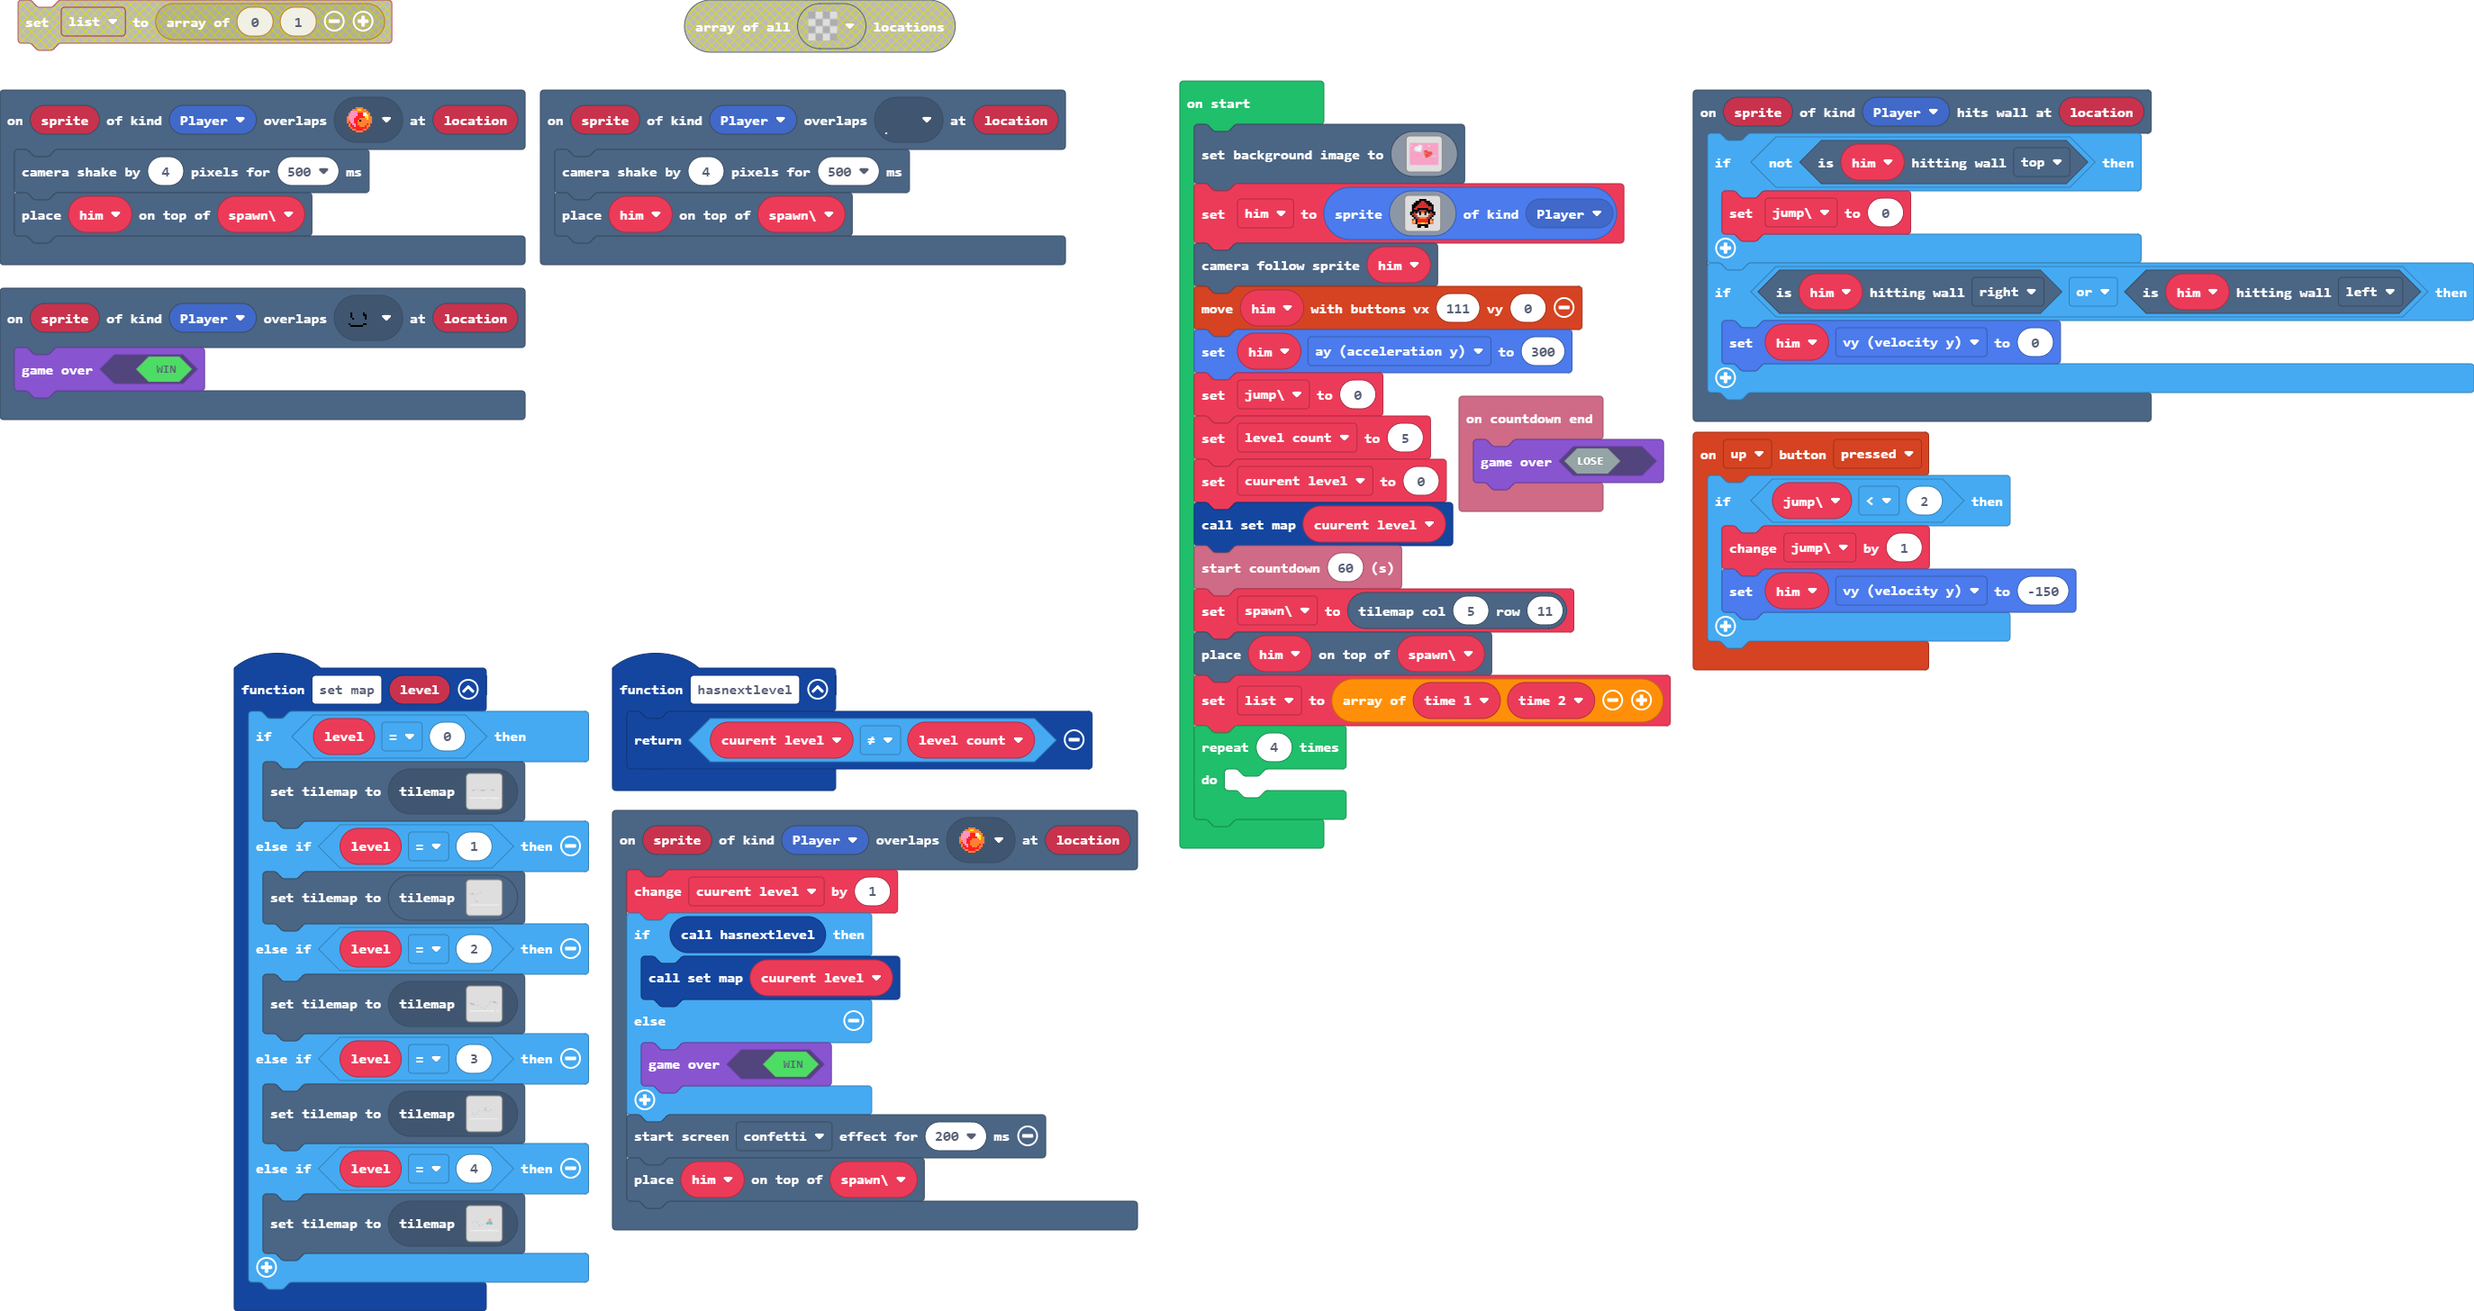
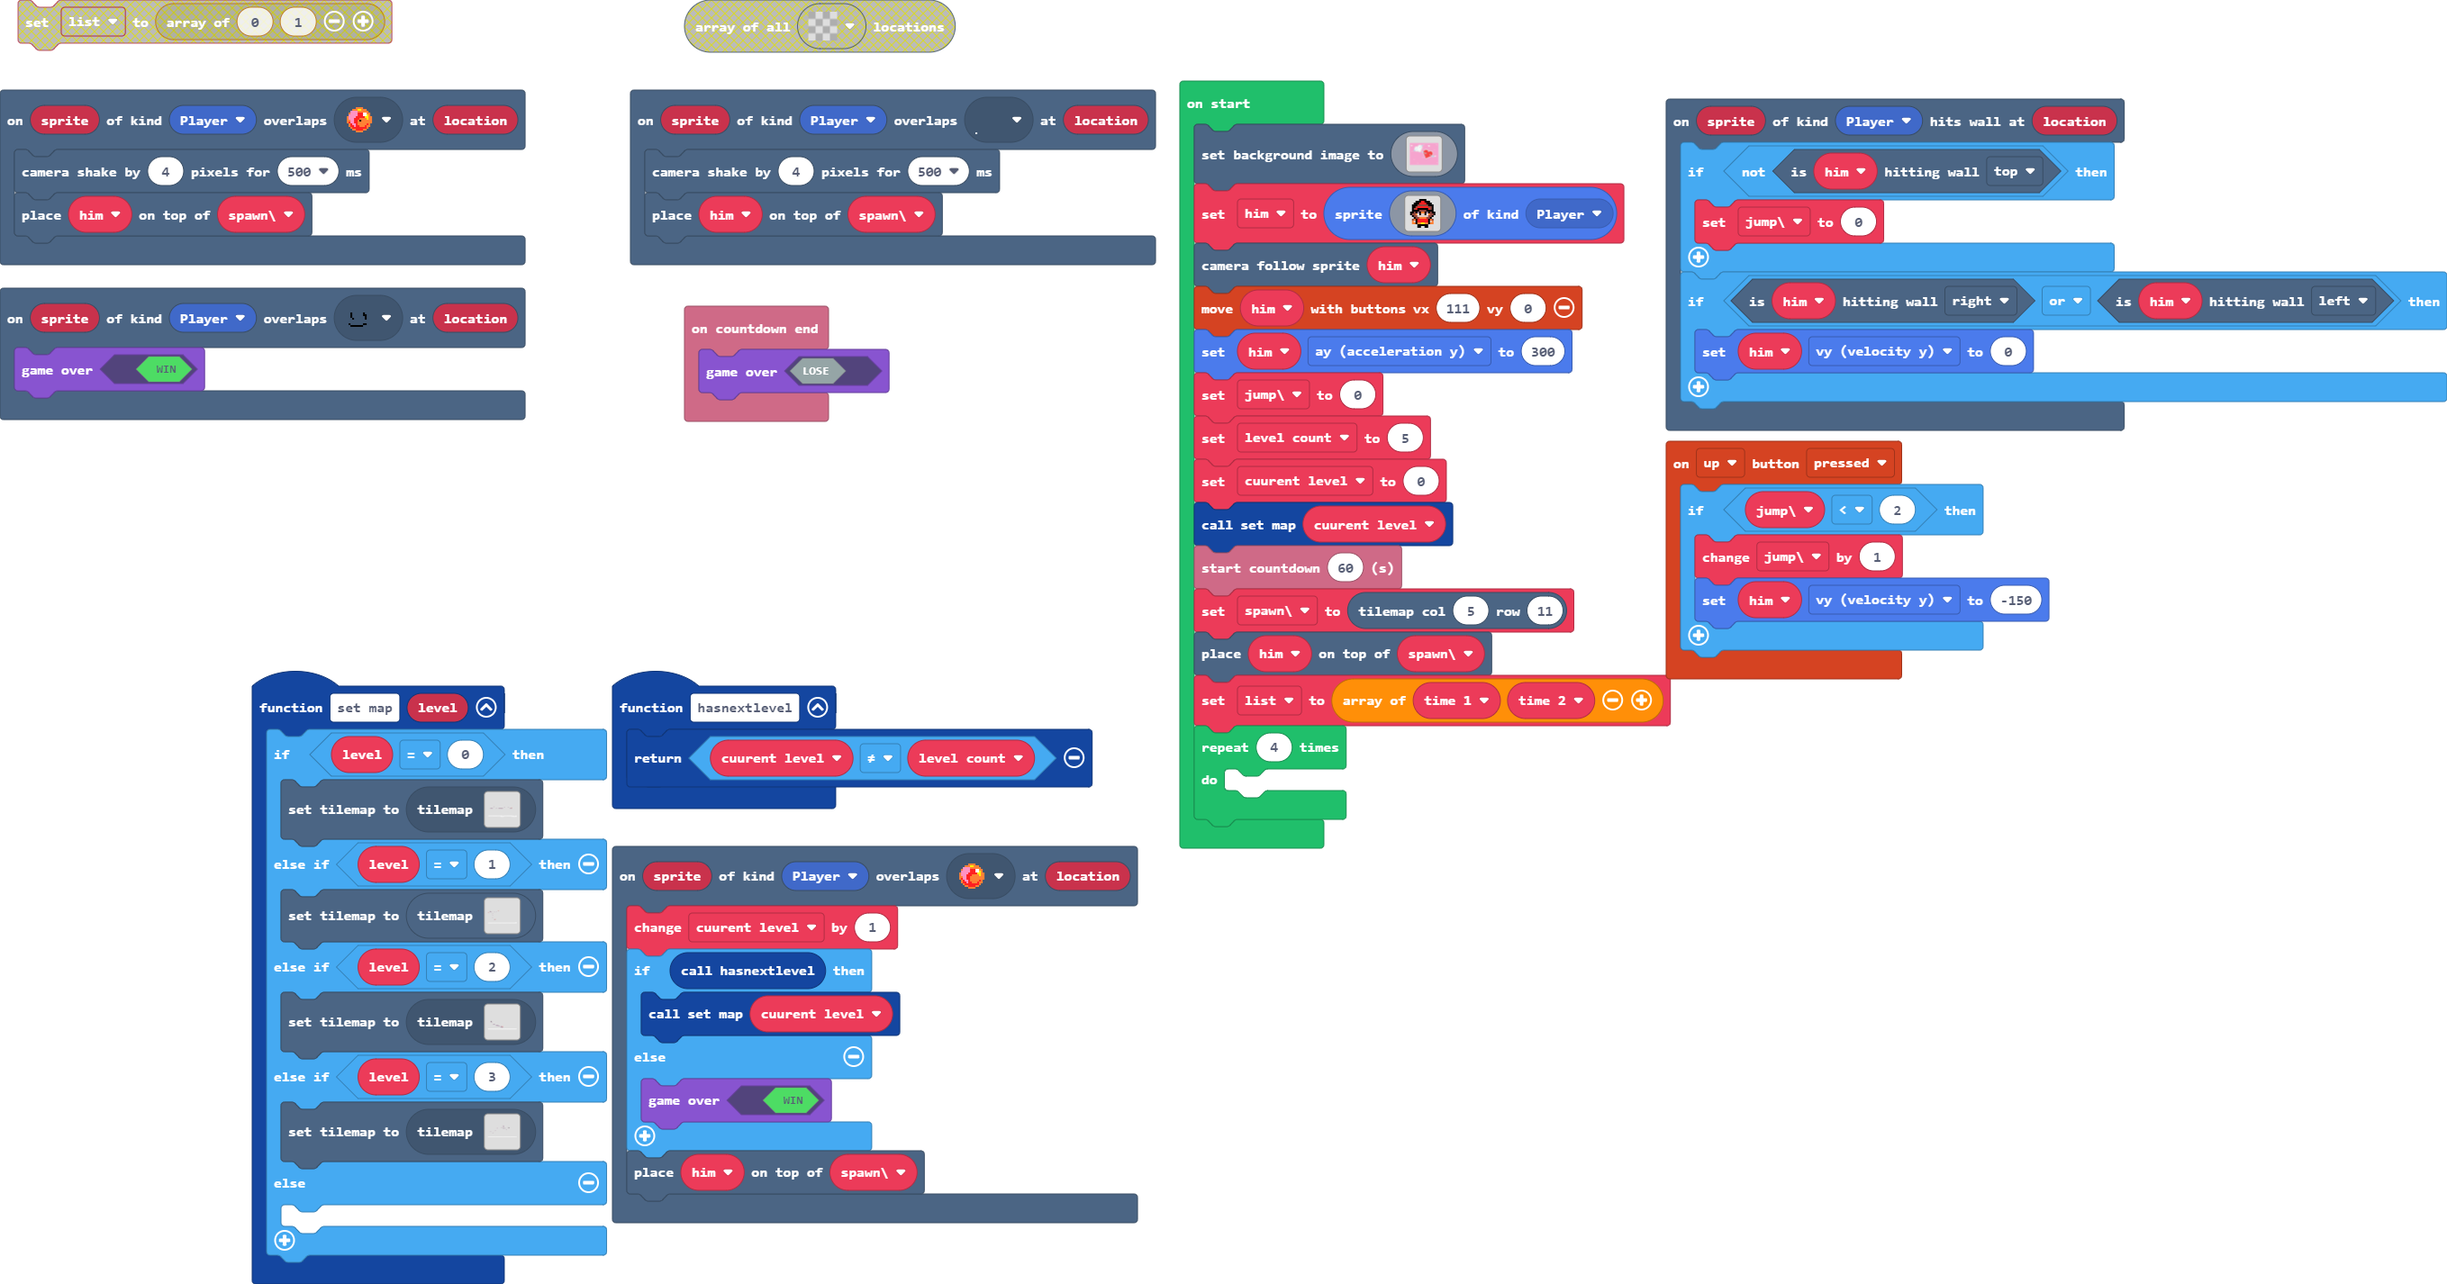
Restore '1/29/2024, 1:09:56 PM Update pxt.json, main.blocks, main.ts'

Changed region(s): [[0.0, 0.0, 1.0, 1.0]]

diff --git a/tilemap.g.ts b/tilemap.g.ts
@@ -134,86 +134,48 @@ namespace myTiles {
 ......................................................................
 `, [myTiles.transparency16,sprites.dungeon.floorDark0,sprites.dungeon.collectibleRedCrystal,myTiles.tile2,myTiles.tile3,myTiles.tile1], TileScale.Sixteen);
             case "level3":
-            case "level3":return tiles.createTilemap(hex`320019000000000000000000000000000000000000000000000000000000000000000000000000000000000000000000000000000000000000000000000000000000000000000000000000000000000000000000000000000000000000000000000000000000000000000000000000000000000000000000000000000000000000000000000000000000000000000000000000000000000000000000000000000000000000000000000000000000000000000000000000000000000000000000000000000000000000000000000000000000000000000000000000000000000000000000000000000000000000000000000000000000000000000000000000000000000000000000000000000000000000000000000000000000000000000000000000000000000000000000000000000000000000000000000000000000000000000000000000000000000000000000000000000000000000000000000000000000000000000000000000000000000000000000000000000000000000000000000000000000000000000000000000000000000000000000000000000000000000000000000000000000000000000000000000000000000100000000000000000000000000000000000000000000000000000000000000000000000000000000000000000000000000000000000001010101010000000000000000000000000000000000000000000000000000000000000000000000000000000000000000000000000000000000000001010000000000000000000000000000000000000000000000000000000000000000000000000000000000000000010000000000010101010000000000000000000000000000000000000000000000000000000100000000000000000000000000000000000000000000010100000000000000000000000000000000000000000000000000000000000000000000000000000000000000000000000000000000000000000000000000000000000000000000000000000000000000000000000000000000000000000000000000000000000000000001000000000000000000000000000000000000000000000000000000000000000000000000000000000000000000000000000000000000000000000000000000000001000000000000000000000000000000000000000000000000000000000000000000000000000000010000000000000000000000000000000000000000000000000000000000000000000000000000000000000000000000000000000000000000000000000000000000000000000000000000000000000000000000000000000000000000000000000000000000000000000000000000000000000000000000000000000000000000000000000000000000000000000000000000000000000000000000010000000000000000000000000000000000000000000000000000000000000000000000000000000000000000000000000000000000000000000000000000000000000000000000000000000000000000000000000000000000000000000000000000000000000000000000000000000000000000000000000000000000000000000000000000000000000000000000000000000000000000000000000000000000000000000000000300000000000202020202020202020202020202020202020202020202020202020202020202020202020202020202020202010202020202`, img`
-..................................................
-.......................2..........................
-.......................2..........................
-.......................2..........................
-.......................2..........................
-.......................2..........................
-.......................2..........................
-.......................2..........................
-.......................2...........2..............
-.......................2................22222.....
-.......................2..........................
-22.....................2......................2...
-..2222.................2.........2................
-......22...............2..........................
-.......................2..........................
-.............2.........2..........................
-.......................2.....2....................
-...................2..............................
-..................................................
-..................................................
-.........................2........................
+            case "level3":return tiles.createTilemap(hex`320019000000000000000000000000000000000000000000000000000000000000000000000000000000000000000000000000000000000000000000000000000000000000000000000000000000000000000000000000000000000000000000000000000000000000000000000000000000000000000000000000000000000000000000000000000000000000000000000000000000000000000000000000000000000000000000000000000000000000000000000000000000000000000000000000000000000000000000000000000000000000000000000000000000000000000000000000000000000000000000000000000000000000000000000000000000000000000000000000000000000000000000000000000000000000000000000000000000000000000000000000000000000000000000000000000000000000000000000000000000000000000000000000000000000000000000000000000000000000000000000000000000000000000000000000000000000000000000000000000000000000000000000000000000000000000000000000000000000000000000000000000000000000000000000000000000000000000000000000000000000000000000000000000000000000000000000000000000000000000000000000000000000000000000000000000000000000000000000000000000000000000000000000000000000000000000000000000000000000000000000000000000000000000000000000000000000200000000000000000000000000000000000000000000000000000000000000000000000000000000000000000000000000010100000000000000000000000000000000000000000000000000000000000000000000000000000000000000000000000000000000000000000000000000000000000000000000000000000000000000000000000000000000000000000000000000000000000000000000000000000000000000000000000000000000000000000000000000000000000000000000000000000000000000000000000000000000000000000000000000000000000000000000000000000000000000000000000000000000000000000000010101000000000000000000000000000000000000000000000000000000000000000000000000000000000000000000000000000000000000000000000000000000000000000000000000000000000000000000000000000000000000000000000000000000000000010101010000000000000000000000000000000000000000000000000000000000000000000000000000000000000000000000000000010100000000000000000000000000000000000000000000000000000000000000000000000000000000000000000000000000000000010100040000000000000000000000000000000000000000000000000000000000000000000000000000000000000000000000010101000000000000000000000000000000000000000000000000000000000000000000000000000000000000000000000000000000000000000000000000000000000000000000000000000000000000000000000000000000000000000000000000000000000000000000000000000000000000000000000000000000000303030303030303030303030303030303030303030303030303030303030303030303030303030303030303030303030303`, img`
 ..................................................
 ..................................................
 ..................................................
-............................................2.....
-`, [myTiles.transparency16,sprites.dungeon.floorDark0,myTiles.tile1,sprites.dungeon.collectibleRedCrystal], TileScale.Sixteen);
-            case "level8":
-            case "level8":return tiles.createTilemap(hex`1000100000000000000000000000000000000000000000000000000000000000000000000000000000000000000000000000000000000000000000000000000000000000000000000000000000000000000000000000000000000000000000000000000000000000000000000000000000000000000000000000000000000000000000000000000000000000000000000000000000000000000000000000000000000000000000000000000000000000000000000000000000000000000000000000000000000000000000000000000000000000000000000000000000000000000000000000000000000000000000000000000000000000000000000000000000000000`, img`
-. . . . . . . . . . . . . . . . 
-. . . . . . . . . . . . . . . . 
-. . . . . . . . . . . . . . . . 
-. . . . . . . . . . . . . . . . 
-. . . . . . . . . . . . . . . . 
-. . . . . . . . . . . . . . . . 
-. . . . . . . . . . . . . . . . 
-. . . . . . . . . . . . . . . . 
-. . . . . . . . . . . . . . . . 
-. . . . . . . . . . . . . . . . 
-. . . . . . . . . . . . . . . . 
-. . . . . . . . . . . . . . . . 
-. . . . . . . . . . . . . . . . 
-. . . . . . . . . . . . . . . . 
-. . . . . . . . . . . . . . . . 
-. . . . . . . . . . . . . . . . 
-`, [myTiles.transparency16], TileScale.Sixteen);
-            case "level9":
-            case "level9":return tiles.createTilemap(hex`1000100000000000000000000000000000000000000000000000000000000000000000000000000000000000000000000000000000000000000000000000000000000000000000000000000000000000000000000000000000000000000000000000000000000000000000000000000000000000000000000000000000000000000000000000000000000000000000000000000000000000000000000000000000000000000000000000000000000000000000000000000000000000000000000000000000000000000000000000000000000000000000000000000000000000000000000000000000000000000000000000000000000000000000000000000000000000`, img`
-. . . . . . . . . . . . . . . . 
-. . . . . . . . . . . . . . . . 
-. . . . . . . . . . . . . . . . 
-. . . . . . . . . . . . . . . . 
-. . . . . . . . . . . . . . . . 
-. . . . . . . . . . . . . . . . 
-. . . . . . . . . . . . . . . . 
-. . . . . . . . . . . . . . . . 
-. . . . . . . . . . . . . . . . 
-. . . . . . . . . . . . . . . . 
-. . . . . . . . . . . . . . . . 
-. . . . . . . . . . . . . . . . 
-. . . . . . . . . . . . . . . . 
-. . . . . . . . . . . . . . . . 
-. . . . . . . . . . . . . . . . 
-. . . . . . . . . . . . . . . . 
-`, [myTiles.transparency16], TileScale.Sixteen);
+..................................................
+..................................................
+..................................................
+..................................................
+..................................................
+..................................................
+..................................................
+..................................................
+..................................................
+.....22...........................................
+..................................................
+..................................................
+..................................................
+.........2222.....................................
+..................................................
+..............2222................................
+..................22..............................
+......................22..........................
+.......................222........................
+..................................................
+..................................................
+..................................................
+`, [myTiles.transparency16,sprites.dungeon.floorDark0,myTiles.tile3,myTiles.tile1,sprites.dungeon.collectibleRedCrystal], TileScale.Sixteen);
             case "level6":
[2 lines of base64/hex data omitted]
 ................................2...........................
 ................................2...........................
 ................................2...........................
 ................................2...........................
-............................................................
-...........................2....2..........2................
-................................2..2........................
-...................2........................................
-............................................................
+............................2...............................
+...................2............2..2.......2................
+................................2...........................
 ............................................................
 ............................................................
 ............................................................
-.....2.........2............................................
+...............2............................................
+............................................................
+.....2......................................................
 ............................................................
 ............................................................
 ..........2.................................................
@@ -225,40 +187,7 @@ namespace myTiles {
 ............................................................
 ............................................................
 ............................................................
-`, [myTiles.transparency16,sprites.dungeon.floorDark0,myTiles.tile1,sprites.dungeon.collectibleRedCrystal], TileScale.Sixteen);
-            case "level7":
[1 lines of base64/hex data omitted]
-............................................................
-............................................................
-............................................................
-............................................................
-............................................................
-.......................................22222................
-.......................................22222................
-.......................................22222................
-.......................................22222................
-.......................................22222................
-...........2................................................
-....................................22222.2222..............
-.....2..............................2222222222..............
-...............2..................222..222222...............
-..................................22..222222................
-..................................2..222222.................
-.........................2..................................
-............................................................
-...................22.......................................
-............................................................
-............................................................
-............................................................
-............................................................
-............................................................
-............................................................
-............................................................
-............................................................
-............................................................
-............................................................
-............................................................
-`, [myTiles.transparency16,sprites.dungeon.floorDark0,sprites.dungeon.collectibleBlueCrystal,sprites.dungeon.hazardWater,tiles.util.object1,sprites.builtin.oceanDepths4,myTiles.tile1,sprites.dungeon.collectibleRedCrystal], TileScale.Sixteen);
+`, [myTiles.transparency16,sprites.dungeon.floorDark0,myTiles.tile1,myTiles.tile7], TileScale.Sixteen);
         }
         return null;
     })

diff --git a/main.ts b/main.ts
@@ -11,8 +11,8 @@ function set_map (level: number) {
         tiles.setCurrentTilemap(tilemap`level3`)
     } else if (level == 3) {
         tiles.setCurrentTilemap(tilemap`level6`)
-    } else if (level == 4) {
-        tiles.setCurrentTilemap(tilemap`level7`)
+    } else {
+    	
     }
 }
 scene.onHitWall(SpriteKind.Player, function (sprite, location) {
@@ -49,7 +49,6 @@ scene.onOverlapTile(SpriteKind.Player, sprites.dungeon.collectibleRedCrystal, fu
     } else {
         game.gameOver(true)
     }
-    effects.confetti.startScreenEffect(200)
     tiles.placeOnTile(him, spawn)
 })
 let time_2 = 0
